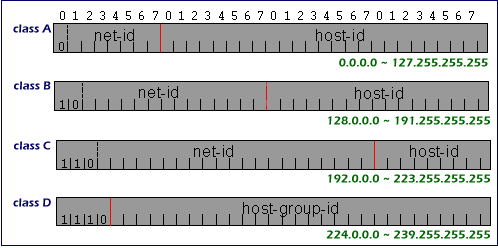
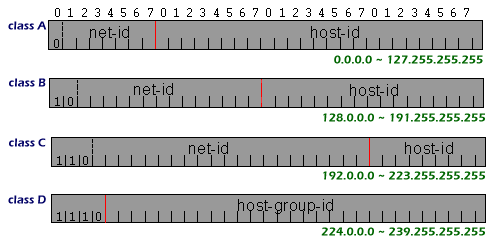
[UPDATE]HTML

diff --git a/WebContent/css/layoutAll.css b/WebContent/css/layoutAll.css
@@ -20,15 +20,15 @@
  */
 @charset "UTF-8";
 
-.container			{display: flex; flex-direction: column}
+.container			{margin:10px;display:flex;flex-direction:column}
 .container > header	{border:1px solid #000000;padding:10px}
 .container > nav	{border:1px solid #FF0000;padding:10px}
 .container > footer {border:1px solid #000000;padding:10px;text-align:center}
 
-.content			{display: flex; border: 1px solid #0000FF}
-.content > nav		{text-align: left  ;margin:5px;border:1px solid #FF0000;flex-basis:300px}
-.content > article	{text-align: center;margin:5px;border:1px solid #00FF00;flex-basis:100% }
-.content > aside	{text-align: right ;margin:5px;border:1px solid #0000FF;flex-basis:300px}
+.content			{display:flex; border:1px solid #0000FF}
+.content > nav		{text-align:left  ;margin:5px;border:1px solid #FF0000;flex-basis:300px}
+.content > article	{text-align:center;margin:5px;border:1px solid #00FF00;flex-basis:100% }
+.content > aside	{text-align:right ;margin:5px;border:1px solid #0000FF;flex-basis:300px}
 
 @media(max-width: 500px) {
 	.content {flex-direction:column}

diff --git a/README.md b/README.md
@@ -8,14 +8,14 @@ Example and Demo for IT(Information Technology) Education(Open source exists in 
 
 
 # Contents
-1. [Fundamental of IT(Information Technology) ......................... 정보기술 기본](./Fundamental/README.md)
-2. [Language ........................................................ 프로그래밍 언어](#language)
-3. [Development ................................................................ 개발](#development)
-4. [Database ........................................................... 데이터베이스](./Database/README.md)
-5. [AI .................................................................... 인공 지능](#ai)
-6. [Management .................................... 시스템과 서비스에 대한 관리(정책)](./Management/README.md)
-7. [History .................................................................... 이력](#history)
-8. [Reference .................................................................. 참고](#reference)
+1. [Fundamental of IT(Information Technology) . 정보기술의 핵심](./Fundamental/README.md)
+2. [Language .................................. 프로그래밍 언어](#language)
+3. [Development .......................................... 개발](#development)
+4. [Database ..................................... 데이터베이스](./Database/README.md)
+5. [AI .............................................. 인공 지능](#ai)
+6. [Management .............. 시스템과 서비스에 대한 관리(정책)](./Management/README.md)
+7. [History .............................................. 이력](#history)
+8. [Reference ............................................ 참고](#reference)
 
 
 # Language

diff --git a/Fundamental/README.md b/Fundamental/README.md
@@ -145,11 +145,11 @@
 	- OSI 7 Layer의 Transport Layer(TCP)와 Network Layer(IP)가 혼합된 형태로 응용 Protocol(HTTP, FTP, …)의 Base Protocol
 ![TCP/IP](./image/tcpip.png)
 - TCP/IP 데이터 전송 과정
-![TCP/IP](./image/tcpipFlow.png)
+![TCP/IP Flow](./image/tcpipFlow.png)
 - TCP/IP Handshake(가상 회선의 상태와 의미)
-![TCP/IP](./image/tcpipHandshake.png)
+![TCP/IP Handshake](./image/tcpipHandshake.png)
 - IP(Internet Protocol) Address Class
-	- `#FF0000` IP Address Class
+![IP Class](./image/ipclass.png)
 - Subnet Mask
 - Gateway IP
 - Class 당 예약되어 사용할 수 없는 IP
@@ -195,7 +195,7 @@
 - 부하 분산과 확장성을 위한 Server(WEB + WAS + Database) 설계
 - Web Server, WAS의 설치, 운영 그리고 연동
 - WAS vs. CGI(WAS와 CGI의 기본적인 구조는 같으나 Web Server가 Application을 사용하는 방식에 차이가 있다. 또한 Application은 구현 방식에 따라 실행 코드 방식과 Script Code(JSP, ASP, PHP 등) 방식으로 구분)
-	- `#FF0000` WAS vs CGI 프로세스
+![WAS vs. CGI](./image/cgi.png)
 
 ### Client
 - Web Browser에는 Chrome, Edge 등이 있다.
@@ -238,7 +238,7 @@
 - https://www.erdcloud.com/, draw.io
 - eXERD, MySQL WorkBench, ERWin 등
 
-## Tool
+## Tools
 ### Presentation
 - Epic Pen
 

diff --git a/Language/HTML/README.md b/Language/HTML/README.md
@@ -42,7 +42,9 @@
 		- input(text, password, radio, checkbox, button, submit, hidden)
 		- select
 		- textarea 등
-	- [시맨틱 태그(Semantic Tag)](../../WebContent/html/semantic.html) 와 레이아웃(Layout)
+	- [시맨틱 태그(Semantic Tag)](../../WebContent/html/semantic.html)와 레이아웃(Layout)
+	![Layout-1](./image/layout_1.png)
+	![Layout-2](./image/layout_2.png)
 - CSS(Cascade Style Sheet)
 	- 개요와 특징
 	- 선택자(Selector)
